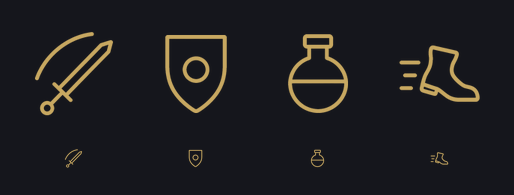
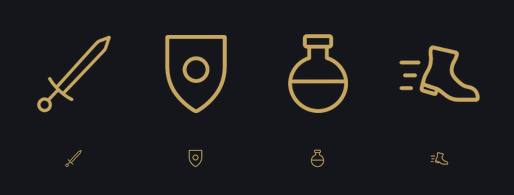
fix: the Attack sword is just a sword now, and only that cell was re-rolled
Owner, on the true-size proof: "icons look better but the motion on the sword looks
unnatural so it can just be a sword." The set was accepted; the slash arc was not.

So one cell was regenerated, not four. defend, item and flee still come out of run 3's
sheet through the identical code path and are byte-identical to what was reviewed --
checked cell by cell, not assumed. Re-running the whole sheet would have re-rolled three
glyphs the owner had already signed off, which is a strange way to honour "everything else
stays".

--replace is how that is expressed. It cannot use the family scale: that factor is one
number derived from the median optical size of four crops on ONE sheet, and it means
nothing for a glyph generated alone on its own canvas. A replacement is matched to the
family's OUTPUT STROKE instead, which is the property the family scale existed to protect.
The median optical is still taken over all four original crops, so the survivors do not
shift by a pixel.

The arc was carrying the distinction from the tab bar's Equip sword, so with it gone the
blade was respecified rather than left to lean on the diagonal alone: leaf-shaped instead
of parallel-sided, no fuller line, a swept crescent guard instead of a straight bar, and an
open ring pommel. Five differences at once. Panel 4 of the proof page stacks the two bars
and they read as different icons at 22px with the labels covered.

The calibration loop that fixed the first three runs did NOT converge on this one:
[…]

Changed region(s): [[0.0623, 0.1538, 0.2179, 0.5846], [0.1245, 0.7692, 0.1556, 0.8615]]

diff --git a/scripts/build_battle_icons.py b/scripts/build_battle_icons.py
@@ -22,7 +22,18 @@ WHAT IT EMITS
     colour lives entirely in the tint and no second asset is needed per colour. Order matches
     BATTLE_ACT in ui-overhaul.js: attack, defend, item, flee.
 
-    python3 scripts/build_battle_icons.py --src <sheet.png>
+    python3 scripts/build_battle_icons.py --src <sheet.png> [--replace attack=<glyph.png>]
+
+REPLACING ONE CELL
+    The owner accepted three of the four glyphs and rejected one, so --replace swaps a single
+    cell's ARTWORK for a separately generated single-glyph image while leaving the other three
+    to come out of --src through the identical code path, byte for byte. Regenerating all four
+    would have re-rolled three glyphs that were already approved.
+
+    A separately generated glyph carries neither of the guarantees a shared sheet gives -- one
+    pen weight and one relative scale -- so it cannot use the family scale. It is scaled to match
+    the family's OUTPUT STROKE instead, which is the invariant the family scale exists to
+    preserve in the first place. See replace_scale().
 """
 from __future__ import annotations
 
@@ -177,6 +188,28 @@ def contact_sheet(sheet: Image.Image, out: pathlib.Path) -> None:
     print(f"WROTE {out}  (contact sheet: {big}px over {21}px, gold on charcoal)")
 
 
+def replace_scale(crop: np.ndarray, family_stroke: float) -> float:
+    """Scale a separately generated glyph to the family's OUTPUT stroke, not to its optical size.
+
+    The family scale cannot be used here. It is one factor derived from the median optical size
+    of the four crops on one sheet, and it works only because the generator drew those four with
+    one pen at sensible relative sizes -- a guarantee that exists per SHEET and does not extend
+    to a glyph generated on its own canvas at its own scale.
+
+    Matching the stroke instead preserves the property the family scale was protecting all along:
+    every glyph in the sheet is drawn with the same weight of line. Size then follows from that,
+    which is the right dependency -- a diagonal blade needs a larger bounding box than a compact
+    shield to look the same size, and this lands it there on its own.
+
+    Judgement, recorded because a future run will face it again: the replacement's own source
+    ratio came in under the anchor band after four attempts (4.62 / 5.04 / 5.56 / 4.72 percent,
+    against 6.09-6.24 for the accepted three), and the generator plateaued rather than converging.
+    Scaling to the family stroke makes the SHIPPED cell match regardless -- what a light source
+    ratio costs is glyph size, not weight, and the ceiling below catches that if it goes too far.
+    """
+    return min(family_stroke / stroke_width(crop), GLYPH / max(crop.shape))
+
+
 def main() -> int:
     ap = argparse.ArgumentParser()
     ap.add_argument("--src", required=True, type=pathlib.Path,
@@ -185,9 +218,22 @@ def main() -> int:
                     help="where to write the sheet (default: public/ui-icons/battle-icons.png)")
     ap.add_argument("--contact", type=pathlib.Path, default=CONTACT,
                     help="where to write the owner review contact sheet")
+    ap.add_argument("--replace", action="append", default=[], metavar="NAME=PNG",
+                    help=f"swap one cell for a separately generated single glyph; "
+                         f"NAME is one of {'/'.join(NAMES)}. Repeatable.")
     args = ap.parse_args()
     if not args.src.is_file():
         sys.exit(f"missing source sheet: {args.src}")
+
+    swaps: dict[int, pathlib.Path] = {}
+    for spec in args.replace:
+        name, _, path = spec.partition("=")
+        if name not in NAMES:
+            sys.exit(f"--replace name must be one of {NAMES}, got {name!r}")
+        p = pathlib.Path(path)
+        if not p.is_file():
+            sys.exit(f"missing replacement glyph: {p}")
+        swaps[NAMES.index(name)] = p
 
     a = alpha_from(args.src)
     spans = columns(a, len(NAMES))
@@ -195,16 +241,44 @@ def main() -> int:
 
     # Optical size, not the bounding box: sqrt(w*h) is much closer to how big a glyph LOOKS than
     # its longest side, and this set contains both a wide flat boot and a tall potion.
+    #
+    # Deliberately computed over ALL FOUR crops even when a cell is being replaced. The median is
+    # what fixes the family scale, so recomputing it over the survivors would shift every
+    # untouched cell by a pixel or two and quietly re-roll glyphs the owner has already approved.
     optical = [float(np.sqrt(c.shape[0] * c.shape[1])) for c in crops]
     base = OPTICAL / float(np.median(optical))
 
-    sheet = Image.new("RGBA", (CELL * len(NAMES), CELL), (255, 255, 255, 0))
+    masks: dict[int, Image.Image] = {}
     for i in range(len(NAMES)):
+        if i in swaps:
+            continue
         scale = min(base, GLYPH / max(crops[i].shape))
         if scale < base:
             print(f"  {NAMES[i]:7s} clamped to the {GLYPH}px ceiling "
                   f"({scale / base:.0%} of the family scale)")
-        mask = normalise(crops[i], scale)
+        masks[i] = normalise(crops[i], scale)
+
+    # The family's output stroke, measured on the cells that came off the sheet, is what a
+    # replacement is matched to. Median, so one odd cell cannot drag the target.
+    family_stroke = float(np.median(
+        [stroke_width(np.asarray(m, dtype=np.float32) / 255) for m in masks.values()]))
+    if swaps:
+        print(f"  family output stroke from {len(masks)} sheet cells: {family_stroke:.2f}px")
+
+    replaced_crops: dict[int, np.ndarray] = {}
+    for i, path in swaps.items():
+        print(f"  {NAMES[i]:7s} REPLACED from {path.name}")
+        crop = trim(alpha_from(path))
+        replaced_crops[i] = crop
+        scale = replace_scale(crop, family_stroke)
+        if scale * max(crop.shape) >= GLYPH:
+            print(f"  {NAMES[i]:7s} clamped to the {GLYPH}px ceiling -- its stroke will land "
+                  f"UNDER the family's; regenerate it heavier rather than shipping this")
+        masks[i] = normalise(crop, scale)
+
+    sheet = Image.new("RGBA", (CELL * len(NAMES), CELL), (255, 255, 255, 0))
+    for i in range(len(NAMES)):
+        mask = masks[i]
         white = Image.new("RGBA", (CELL, CELL), (255, 255, 255, 255))
         white.putalpha(mask)
         sheet.paste(white, (i * CELL, 0))
@@ -212,8 +286,9 @@ def main() -> int:
         rows = np.where(out.sum(1) > 0)[0]
         cols = np.where(out.sum(0) > 0)[0]
         box = max(rows[-1] - rows[0], cols[-1] - cols[0]) + 1
-        src_sw = stroke_width(crops[i])
-        src_opt = optical[i]
+        crop = replaced_crops.get(i, crops[i])
+        src_sw = stroke_width(crop)
+        src_opt = float(np.sqrt(crop.shape[0] * crop.shape[1]))
         print(f"  {NAMES[i]:7s} cell {i}  src stroke {src_sw:5.1f}px "
               f"({100 * src_sw / src_opt:4.2f}% of optical)"
               f"  -> stroke {stroke_width(out):4.2f}  box {box:3d}/{CELL}"

diff --git a/scripts/runtime_baseline.py b/scripts/runtime_baseline.py
@@ -183,7 +183,7 @@ UI_ASSET_FILES = {
     # one of which (qok-shieldw) hardcoded fill="#fff" and could not be tinted at all.
     # Recovered from the generator's output by scripts/build_battle_icons.py.
     "ui-icons/battle-icons.png": (
[2 lines of base64/hex data omitted]
 }
 # The four tiling terrain materials the renderer above samples. New runtime paths as of
 # 2026-08-01; pinned by hash rather than merely tolerated, because they are shipped art and a

diff --git a/design/ui-overhaul/battle-icons/PROVENANCE.md b/design/ui-overhaul/battle-icons/PROVENANCE.md
@@ -61,6 +61,53 @@ calibration ("attempt 1 was 4.4%, attempt 2 was 8.1%, aim for 6.3%"), which is w
 first try. Nothing was hand-drawn, retouched or redrawn at any point; the rejected runs were
 regenerated, not fixed.
 
+## Attack was replaced after owner review — runs 4 to 7
+
+Owner, on the true-size proof: *"icons look better but the motion on the sword looks unnatural
+so it can just be a sword."* The set was accepted; only the Attack glyph's slash arc was
+rejected.
+
+**One cell was regenerated, not all four.** The three approved glyphs come out of run 3's sheet
+through the identical code path and are **byte-identical** to what was reviewed — verified cell
+by cell. Re-running all four would have re-rolled three glyphs the owner had already signed off.
+`build_battle_icons.py --replace attack=<png>` is how that is expressed; it is a scripted
+transformation like every other, not a hand edit.
+
+| run | codex session | md5 | stroke / optical | verdict |
+|---|---|---|---|---|
+| 4 | `019fd9f9-3085-7633-8213-4f3ef46b02a2` | `aef43348796592d07c242c7fb5a5e55f` | 4.62% | REJECTED — composition right, stroke a quarter too light. Normalised, it hits the 116px ceiling, so its stroke lands *under* the family's. |
+| 5 | `019fd9fa-87d8-7bb1-8cf9-6a519f86d523` | `a18433366b642f865e57e5b885167824` | 5.04% | REJECTED — asked for a third thicker, moved a tenth. |
+| **6** | **`019fd9fc-d89d-7833-ad51-6af866c8d1e1`** | **`5c2ada8ff54c3aa5eadd3cdfb574c3c0`** | **5.56%** | **CHOSEN** — the only one of the four that reaches the family's output stroke without hitting the ceiling, and at a cell box of 102/128 against the survivors' 104–107. |
+| 7 | `019fd9fe-49cc-73d3-8fd9-4ef6cc3e6794` | `122ae012161b566412196253384c393b` | 4.72% | REJECTED — asked for 62px, went *backwards*. This is where the loop was stopped. |
+
+**The calibration loop that worked for runs 1–3 did not converge here: 4.62 → 5.04 → 5.56 →
+4.72.** Numeric feedback moved the generator about half as far as asked each time and then
+oscillated, even when the target was restated in absolute canvas pixels. Run 6's 5.56% is under
+the anchor band (5.9–6.7%) and under the three survivors (6.09–6.24%), and four attempts is
+where chasing it stopped being worth another re-roll of a composition that was already right.
+
+That miss is absorbed by the build rather than by hand. A separately generated glyph cannot use
+the family scale anyway — that factor only means anything within one sheet — so a replacement is
+scaled to match the family's **output stroke** instead, which is the property the family scale
+existed to protect. The shipped Attack cell therefore measures **5.57px against the survivors'
+5.53–5.61px**, an exact match, and what the light source ratio actually cost was glyph size, not
+weight. The script warns and tells you to regenerate heavier if a replacement ever clamps against
+the 116px ceiling, which is the case where the stroke genuinely cannot be matched — runs 4 and 7
+both do.
+
+### Keeping it distinct from the tab bar's Equip sword
+
+With the arc gone the diagonal angle alone would have been carrying the whole distinction, so the
+blade was respecified instead. The anchor's Equip sword is vertical, point-up, a narrow
+parallel-sided blade with a centre fuller line, a straight bar crossguard and a small round
+pommel. This one differs on five counts at once, all specified in the brief: **diagonal** rather
+than vertical, a **broader leaf-shaped blade**, **no fuller line**, a **swept crescent
+crossguard** rather than a straight bar, and an **open ring pommel**. Panel 4 of `proof.html`
+stacks the two bars directly for that comparison; at 22px they read as different icons with the
+labels covered.
+
+No motion of any kind remains in the glyph — no arc, no speed lines, no impact marks.
+
 Distinctness was a hard requirement, because the anchor family already contains a sword and a
 pouch and both can be on screen in the same session. The brief forbade a vertical upright sword
 and a pouch/sack silhouette by name. Delivered: the attack sword is diagonal and carries a slash
@@ -72,7 +119,8 @@ against the anchor's soft gathered sack).
 
 | file | what it is |
 |---|---|
-| `source-generated.png` | the raw generator output, byte-identical, `cmp` clean |
+| `source-generated.png` | run 3's raw four-up sheet, byte-identical, `cmp` clean — still the source of defend, item and flee |
+| `source-generated-attack.png` | run 6's raw single-glyph sword, byte-identical, `cmp` clean — the source of attack |
 | `contact-sheet.png` | the four glyphs for one-glance approval, emitted by the build script |
 | `proof.html` | the true-size proof page; loads the SHIPPED css and png, not copies |
 | `proof-truesize-dpr3.png` | that page captured at 390 CSS px, deviceScaleFactor 3 |
@@ -107,3 +155,16 @@ is a genuine empty column, so that splitter finds five and aborts on art that is
 battle build ranks gutters by width and cuts on the widest three instead — on this sheet the
 cell gutters are 96–121px and the widest in-glyph gap is 0px, so the two are never close, and
 the script refuses to guess if that margin ever narrows.
+
+The single-glyph runs 4–7 came back the same way: opaque, flat near-black, no chequer. The brief
+naming the chequer as the thing not to do has now held across five generations.
+
+## Rebuilding
+
+```
+python3 scripts/build_battle_icons.py \
+    --src     design/ui-overhaul/battle-icons/source-generated.png \
+    --replace attack=design/ui-overhaul/battle-icons/source-generated-attack.png
+python3 scripts/regenerate_pins.py
+./scripts/build-dist.sh && ./scripts/ship-gate.sh .
+```
